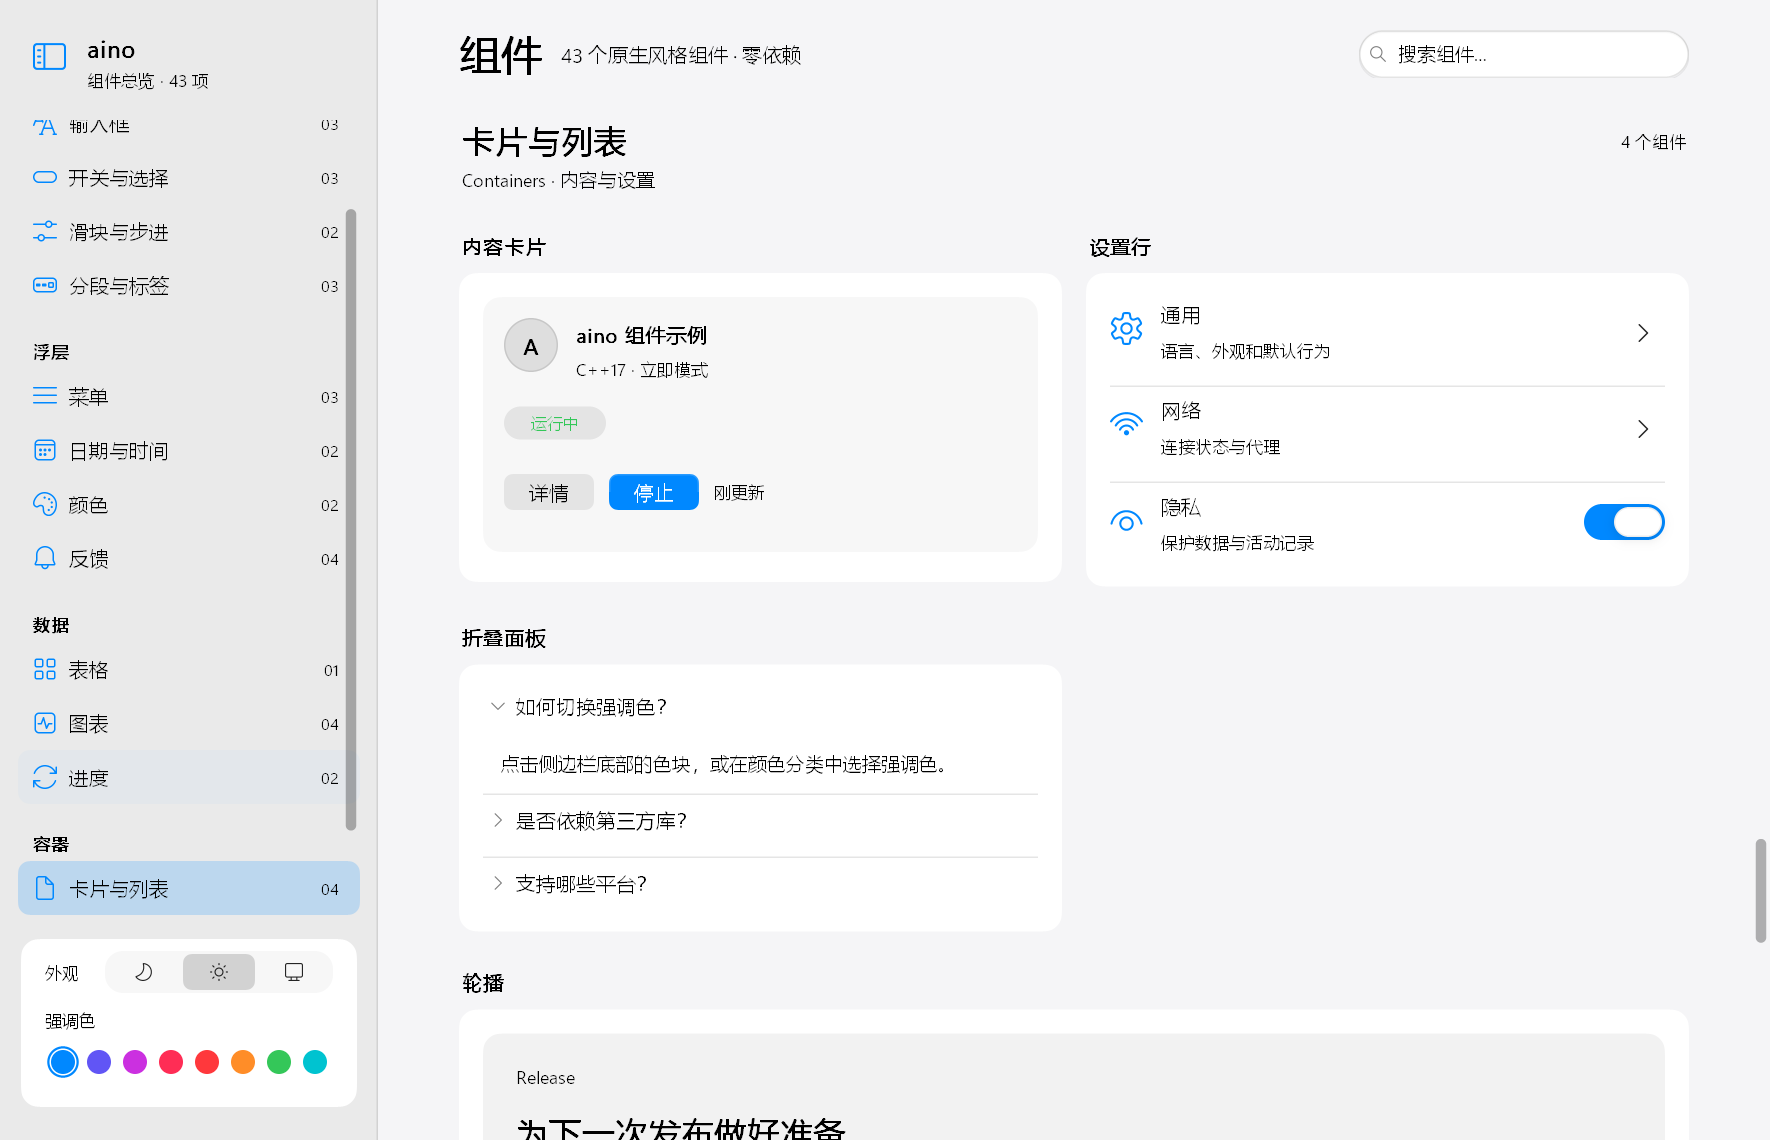
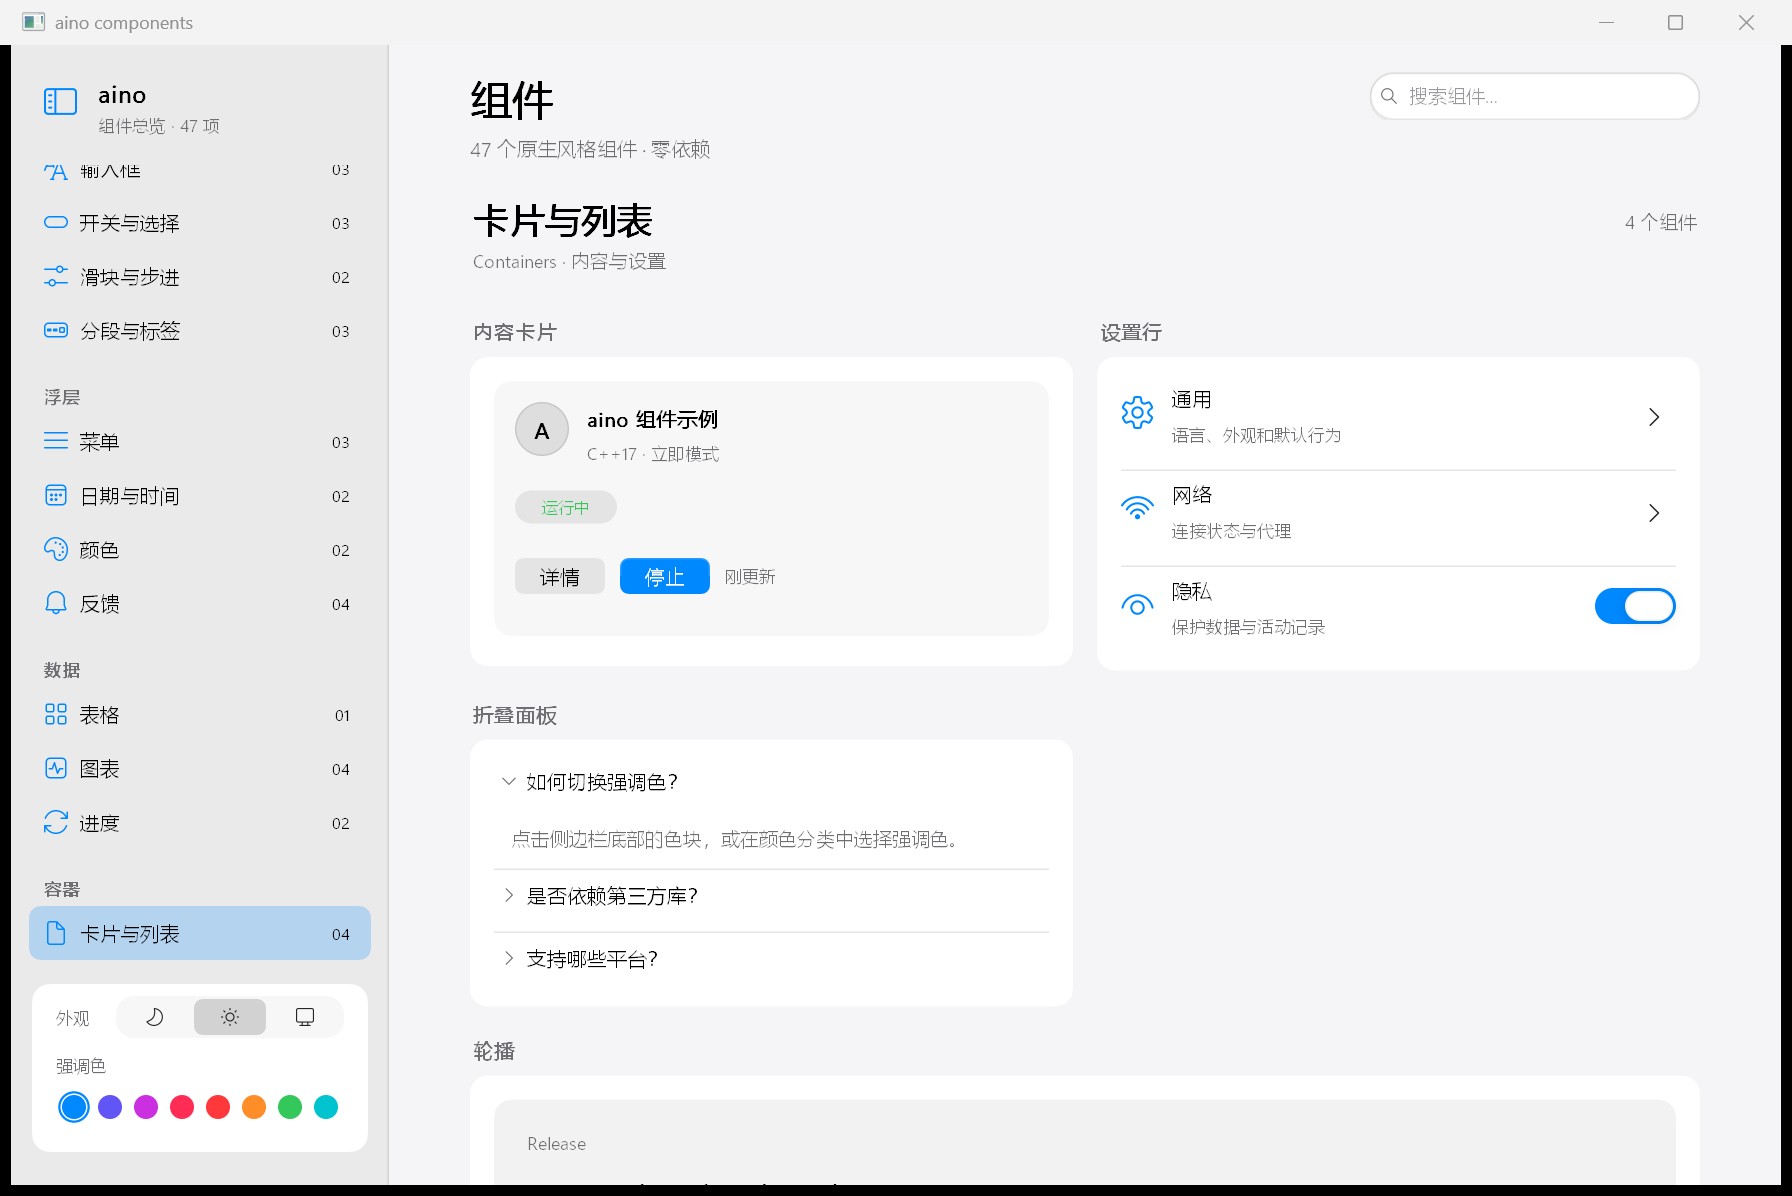
chore(release): 0.5.2
What: Bump AINO_VERSION to 0.5.2, document color_picker, refresh the gallery counts and preview screenshots.
Why: v0.5.0 was the last tag; the audit batches, color picker, SSH workspace rework and gallery pages since then were never released.
How: Version macro only changes the reported string; docs gain a color_picker section and the 17-page/47-card figures; screenshots are regenerated from the running gallery.
Impact: No public API or visual change in the library itself; docs now match the shipped API and examples.
Future: Tag v0.5.2 carries the change list since v0.5.0.

diff --git a/aino.hpp b/aino.hpp
@@ -31,8 +31,8 @@
 
 #define AINO_VERSION_MAJOR 0
 #define AINO_VERSION_MINOR 5
-#define AINO_VERSION_PATCH 0
-#define AINO_VERSION "0.5.0"
+#define AINO_VERSION_PATCH 2
+#define AINO_VERSION "0.5.2"
 
 #include <cstdint>
 #include <cstddef>

diff --git a/docs/12-component-index.md b/docs/12-component-index.md
@@ -11,7 +11,7 @@
 | 容器与状态 | `panel`、`card`、`separator`、`badge`、`progress`、`progress_ring`、`skeleton` | [05 容器](05-containers.md) |
 | 按钮与导航 | `button`、`icon_button`、`nav_item`、`toggle_button`、`button_group` | [06 交互](06-interactive.md) |
 | 文本输入 | `input`、`search_field`、`textarea`、`input_group`、`input_otp`、`field` | [06 交互](06-interactive.md) |
-| 选择与数值 | `checkbox`、`toggle`、`slider`、`tabs`、`segmented`、`select`、`radio_group`、`stepper`、`rating`、`toggle_group`、`toggle_group_multi`、`combobox`、`calendar`、`color_well` | [06 交互](06-interactive.md) |
+| 选择与数值 | `checkbox`、`toggle`、`slider`、`tabs`、`segmented`、`select`、`radio_group`、`stepper`、`rating`、`toggle_group`、`toggle_group_multi`、`combobox`、`calendar`、`color_well`、`color_picker` | [06 交互](06-interactive.md) |
 | 展示与条目 | `avatar`、`spinner`、`alert`、`breadcrumb`、`kbd`、`accordion`、`table`、`sparkline`、`bars`、`item`、`empty_state`、`pagination`、`image_well` | [07 展示](07-display.md) |
 | 浮层 | `tooltip`、`menu`、`dialog`、`sheet`、`toast`、`popover`、`hover_card`、`alert_dialog`、`drawer`、`context_menu`、`menubar` | [08 浮层](08-overlays.md) |
 | 布局 | `vbox`、`hbox`、`begin_scroll`、`end_scroll`、`split_pane`、`aspect_rect` | [03 布局](03-layout.md) |
@@ -24,7 +24,7 @@
 
 ## Gallery 中的组合示例
 
-`examples/gallery.cpp` 包含 15 个分类、43 张卡片。卡片数量与公开 API 数量不同：
+`examples/gallery.cpp` 包含 17 个分类、47 张卡片。卡片数量与公开 API 数量不同：
 同一张卡片可以演示多个 API，一些卡片由基础组件与图元组合而成。
 
 | 示例 | 实现边界 |

diff --git a/docs/06-interactive.md b/docs/06-interactive.md
@@ -744,7 +744,7 @@ if (ui.calendar(&year, &month, &day, {x, y, 260, 240})) reload(year, month, day)
   **不碰 `<ctime>`**：`mktime` / `localtime` 带本地时区与夏令时，同一份代码在 UTC 的 CI runner
   和东八区的机器上会差一天，而那是最难查的一类「只在我的机器上错」。
 
-## 17. 搜索框与颜色池
+## 17. 搜索框与颜色
 
 ### `search_field`
 
@@ -768,3 +768,24 @@ if (ui.color_well(ui.theme().purple, {24, 64, 48, 24})) {
 
 绘制传入颜色与细边，返回本帧是否点击；默认圆角 `theme.radius`，支持 `radius/disabled`。
 它不保存选择，也不打开系统颜色面板。主题色切换由调用方使用 `Theme::set_tint()` 完成。
+
+### `color_picker`
+
+```cpp
+aino::Color accent = aino::Color::hex("#0A84FF");
+bool picking = false;
+ui.color_picker(&accent, &picking, {24, 104, 120, 28}, [&](aino::Color c) {
+    auto theme = ui.theme();
+    theme.set_tint(c);
+    win.set_theme(theme);
+});
+```
+
+触发器是一个圆角色块加十六进制文本（默认 `secondary` 变体，可用 `st.variant` 覆盖），
+点击后在锚点下方弹出 **288×282** 的浮层：顶部是颜色预览和当前值（含 alpha 时输出 `#RRGGBBAA`），
+中间三条 0–255 的 RGB 滑杆，底部一行 8 个预设色块，右上角「完成」关闭。
+
+- `value` 与 `open` 都必须是调用方持有的存储，**须存活到本帧结束**；`open` 由组件负责翻转；
+- `*value` 在浮层内即时更新，`on_change` 在**帧末**统一回调一次，同一帧内多次拖动只回调一次；
+- `alpha` 原样保留：组件只改 R/G/B 三个通道，不把颜色强制变不透明；
+- 浮层高度固定 282，窗口不足时内部可滚动；点预设色会立即写入并关闭。

diff --git a/docs/README.md b/docs/README.md
@@ -17,7 +17,7 @@
 | [03-layout.md](03-layout.md) | `Stack` 布局器（`vbox`/`hbox`/`next`/`fill`/`part`）、滚动容器、`split_pane` 可拖动分栏 |
 | [04-text.md](04-text.md) | 文本类：`label` `heading` `subheading` `muted_text` `code_text` `code_block` |
 | [05-containers.md](05-containers.md) | 容器类：`panel` `card` `separator` `badge` `progress` `progress_ring` `skeleton` |
-| [06-interactive.md](06-interactive.md) | 按钮、导航、输入、选择、数值、分组与复合表单、搜索框、颜色池 |
+| [06-interactive.md](06-interactive.md) | 按钮、导航、输入、选择、数值、分组与复合表单、搜索框、颜色池与取色器 |
 | [07-display.md](07-display.md) | 头像、活动指示、提示、路径、快捷键、折叠标题、表格、趋势图、条目、空状态、分页、图片占位 |
 | [08-overlays.md](08-overlays.md) | 浮层类：`tooltip` `menu` `dialog` `toast`；另含 `sheet` `popover` `hover_card` `alert_dialog` `drawer` `context_menu` `menubar` |
 | [09-primitives.md](09-primitives.md) | 图元与度量：几何、连续圆角、渐变、阴影、背景模糊、系统图标、文字与度量 |
@@ -35,7 +35,7 @@
 
 | 源文件 | 内容 |
 |---|---|
-| `gallery.cpp` | 15 分类、43 卡片、搜索、主题与强调色、独立素材子窗口 |
+| `gallery.cpp` | 17 分类、47 卡片、搜索、主题与强调色、独立素材子窗口 |
 | `primitives_demo.cpp` | 圆角、线宽、透明度；几何、阴影、裁剪、变换、系统图标与模糊 |
 | `sidebar_demo.cpp` | 导航与通知偏好 |
 | `pomodoro.cpp` | 番茄钟：侧栏与工具栏、专注 / 休息、暂停续计、时长和外观设置 |

diff --git a/docs/macos27/README.md b/docs/macos27/README.md
@@ -21,7 +21,7 @@
 - 深色工具栏、侧栏和窗口背景统一为 `#1E1E1E`；下方原始表格中的 Title Bar `#3C3C3C` 是资料值。
 - `Theme::set_tint()` 同步强调色及兼容字段，普通页签采用淡底，分段选择采用凹槽与强调色选中段。
 - 面板、表格与提示默认减少边框；对话框无全屏黑色遮罩，操作按钮采用圆角。
-- 画廊固定侧栏 252、工具栏高 60，15 个分类、43 张卡片，连续滚动与搜索。
+- 画廊固定侧栏 252、工具栏高 60，17 个分类、47 张卡片，连续滚动与搜索。
 - 图元示例单独展示几何、透明合成、阴影、裁剪、变换、文字、系统图标与背景模糊。
 
 完整主题字段见 [02](../02-style-and-theme.md)，组件见 [06](../06-interactive.md)，

diff --git a/docs/10-performance.md b/docs/10-performance.md
@@ -104,7 +104,7 @@ Windows x64、MSVC Release，逻辑窗口 1180×760、DPI 1.5（客户区 1770×
 | 拖动滑杆 | 41.77% | 2.32% |
 | 进度区静置 | 0.00% | 0.00% |
 
-优化为缓存卡片高度，避免每帧测量所有 43 张卡片；宽度、主题、DPI、折叠状态和标签删除状态
+优化为缓存卡片高度，避免每帧测量所有 47 张卡片；宽度、主题、DPI、折叠状态和标签删除状态
 变化时重测。固定离屏绘制、预热 20 帧后取 120 帧：均值 6.757 → 6.472 ms（约 4.2%），
 p95 8.303 → 7.861 ms。缓存与全量重测的几何一致性由画廊探针验证。
 

diff --git a/docs/03-layout.md b/docs/03-layout.md
@@ -185,7 +185,7 @@ draw_my_panel(ui, app, aino::Rect(x, y, w, used.h));
 外层高度，否则一张卡片会被撑成几千像素。
 
 画廊布局报告通过 `AINO_LAYOUT_REPORT=<路径>` 输出当前卡片的名称、分类、位置和尺寸。
-未搜索时为 15 个分类、43 张卡片；它与测量 API 的用途不同。
+未搜索时为 17 个分类、47 张卡片；它与测量 API 的用途不同。
 卡片内容高度、窄窗口与搜索结果由 `macos_gallery_probe.cpp` 检查。
 
 ---
